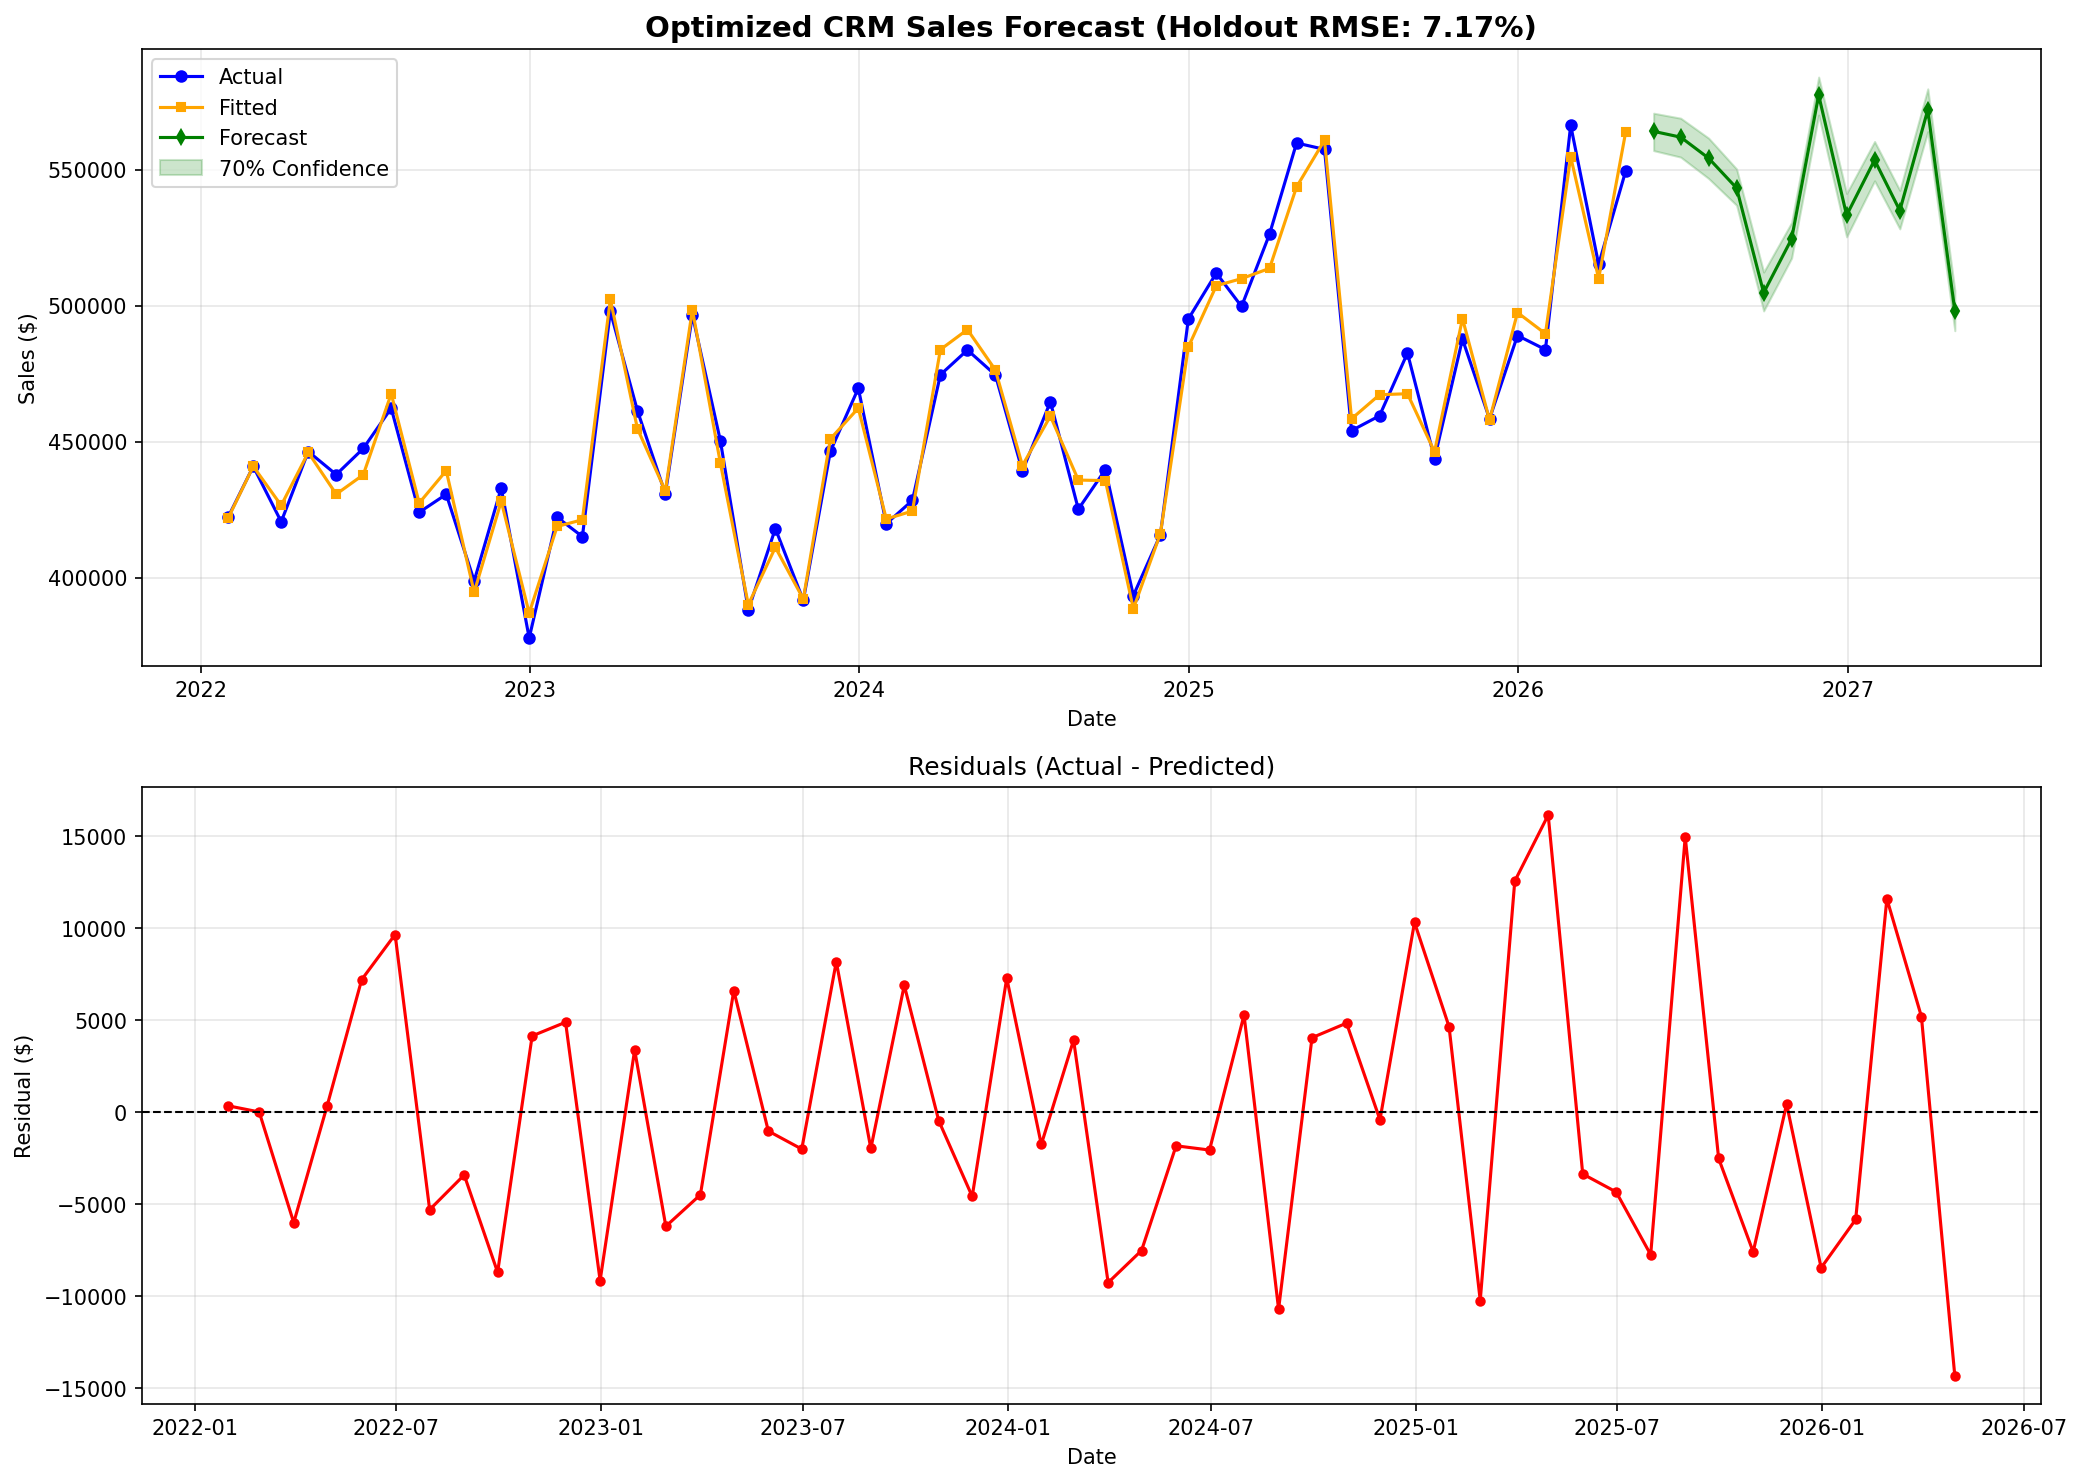
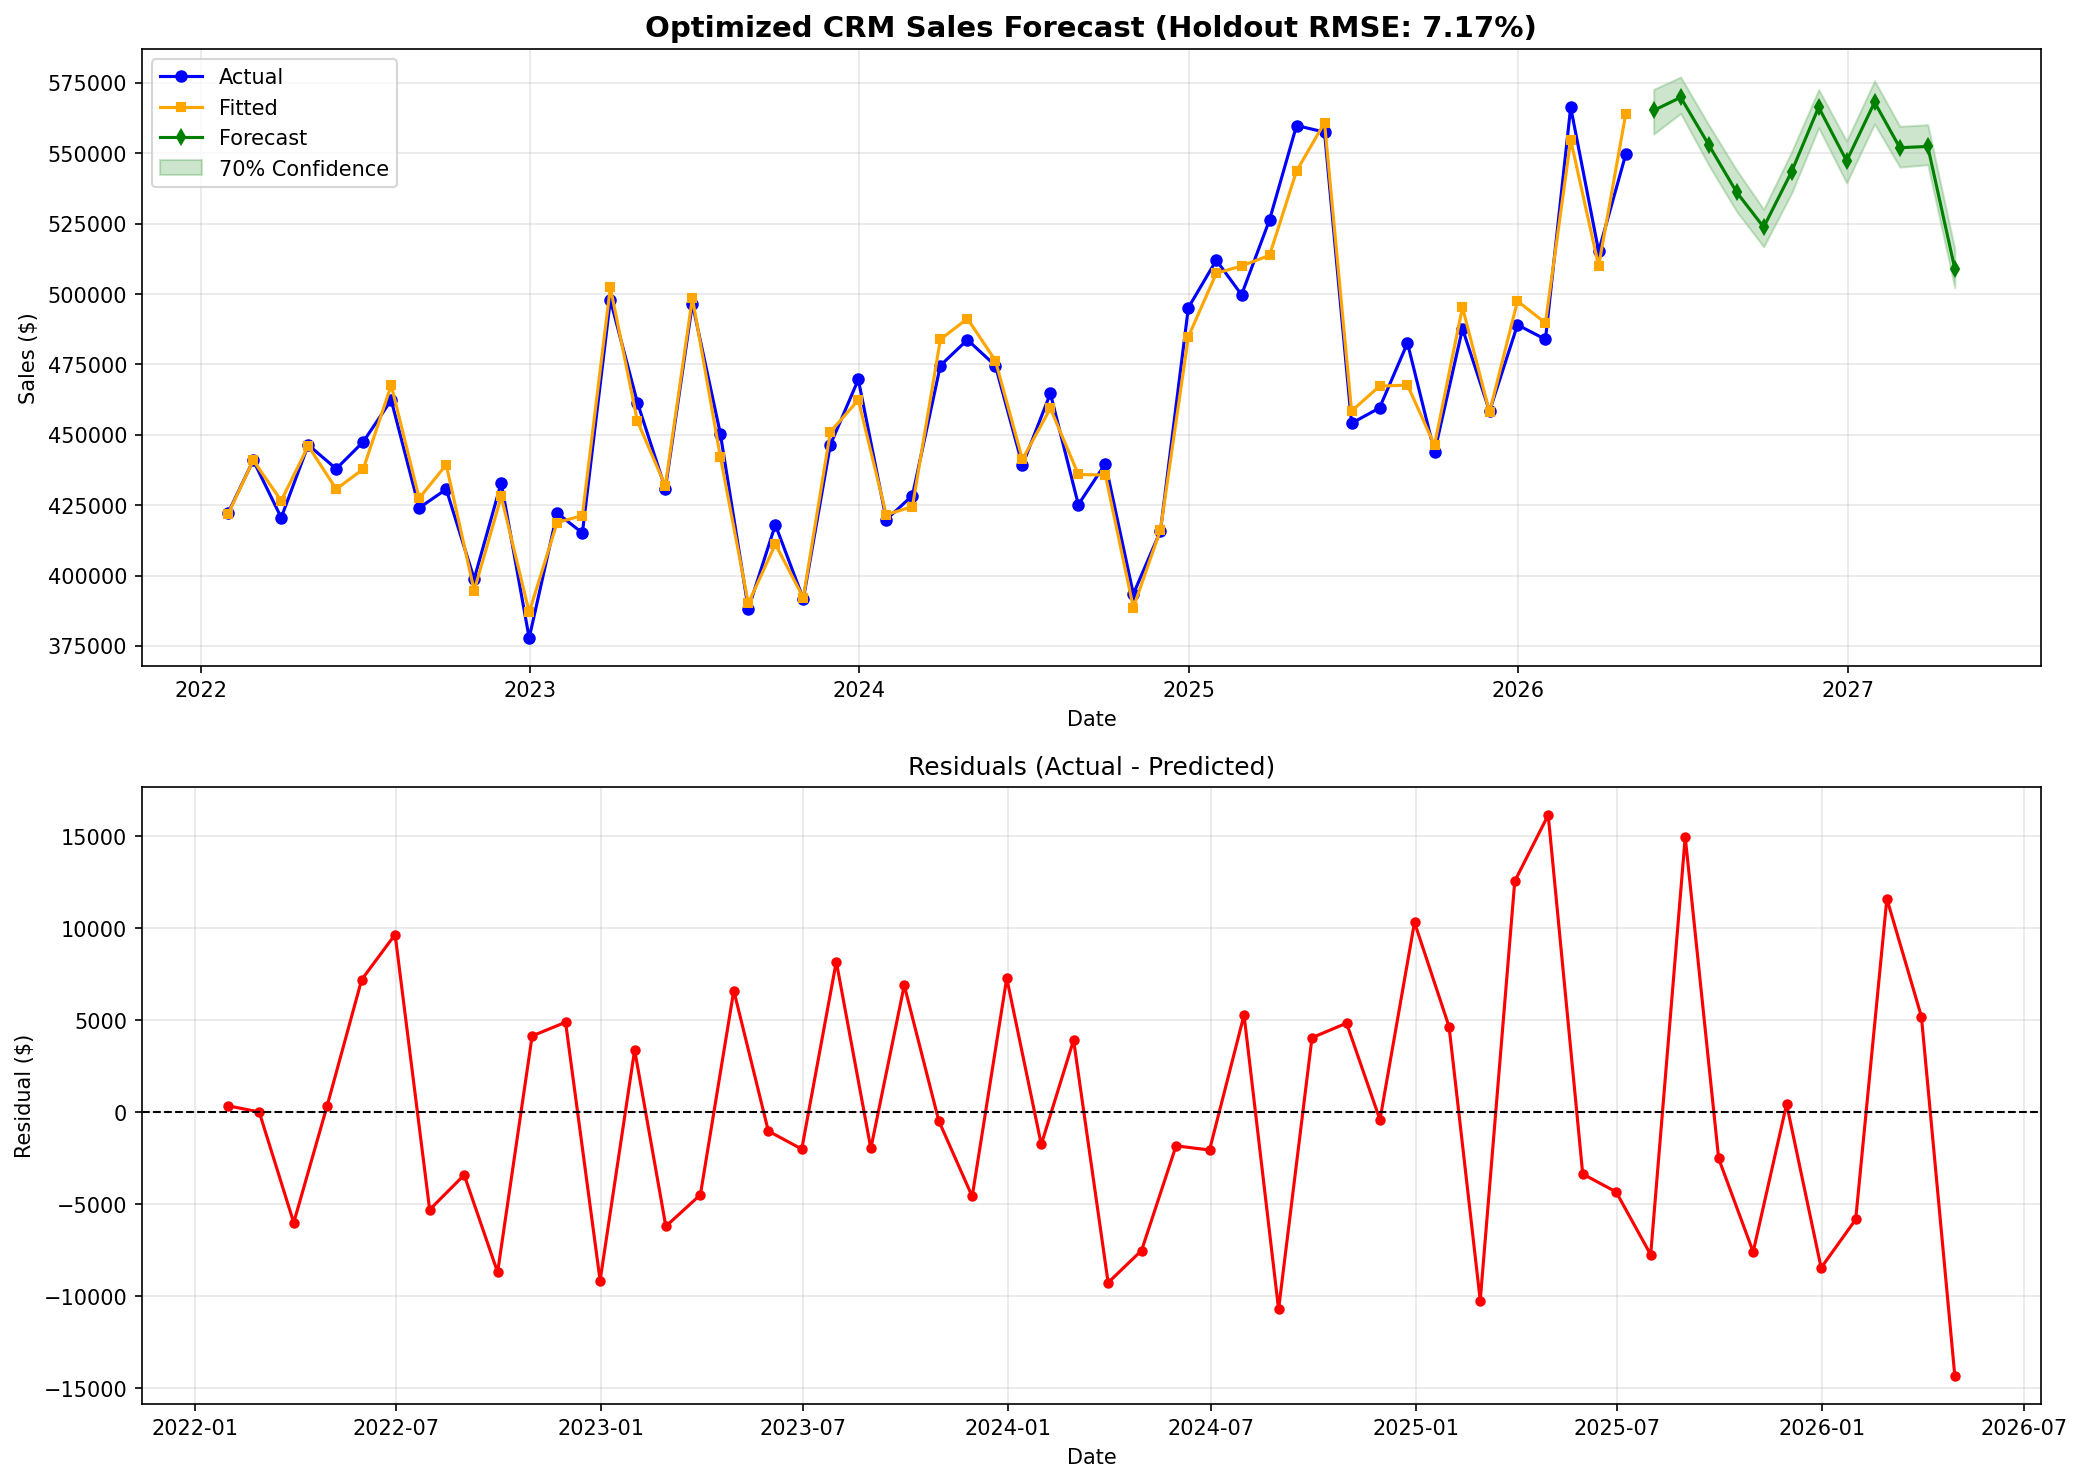
Update forecast outputs and notebook helper

diff --git a/check_notebook.py b/check_notebook.py
@@ -1,0 +1,25 @@
+import json
+
+# Read the notebook
+with open('forecast_backup.ipynb', 'r', encoding='utf-8') as f:
+    nb = json.load(f)
+
+# Get the cell text
+cell_text = ''.join(nb['cells'][0]['source']) if nb['cells'][0]['cell_type'] == 'code' else ''
+
+# Check what we have
+if 'parallel=None' in cell_text:
+    print('✓ parallel=None found in notebook')
+elif 'parallel="processes"' in cell_text:
+    print('✗ parallel="processes" STILL in notebook - fixing now...')
+    # Fix it by replacing in the lines
+    for i, line in enumerate(nb['cells'][0]['source']):
+        if 'parallel="processes"' in line:
+            nb['cells'][0]['source'][i] = line.replace('parallel="processes"', 'parallel=None')
+            print(f'Fixed line {i}')
+    # Write back
+    with open('forecast_backup.ipynb', 'w', encoding='utf-8') as f:
+        json.dump(nb, f, indent=1)
+    print('✓ Notebook saved with fix')
+else:
+    print('✓ No parallel="processes" found - may already be fixed')

diff --git a/README.md b/README.md
@@ -247,8 +247,11 @@ MIT License - Feel free to use, modify, and distribute.
 
 ---
 
-**Last Updated**: May 16, 2026  
+**Last Updated**: May 17, 2026  
 **Status**: 🎯 Production Ready
+- **5 engineered regressors** (focused set to reduce overfitting)
+- **Cross-validation based selection** on original-scale RMSE
+- **52 months synthetic data** with optimized noise
 - **5 engineered regressors** (focused set to reduce overfitting)
 - **Cross-validation based selection** on original-scale RMSE
 - **52 months synthetic data** with optimized noise
